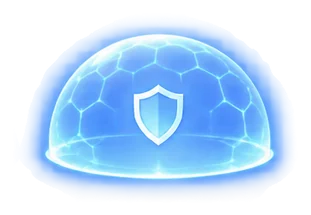
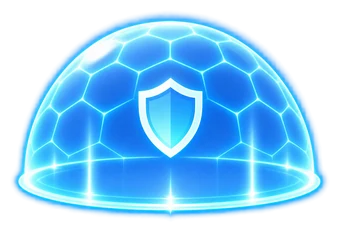
Replace W shield frames with uploaded 방어막1-4 art; enlarge 추진팀장
- Build fx_w_0..3 from the transparent 방어막1-4.png sources with equal ring
  width and no edge feathering, so the dome is never clipped
- Shrink the 추진팀장 idle canvas so the in-game scale matches the other captains

Claude-Session: https://claude.ai/code/session_01MvzzvQc6xr2KAW6vgqiYJS

diff --git a/tools/build_sprites.py b/tools/build_sprites.py
@@ -175,6 +175,18 @@ for r, row in enumerate(names):
         if n in W_BOXES:  # W 보호막은 격자 칸보다 넓어 실제 위치로 잘라냄
             im = largest(crop(fx, *W_BOXES[n]), dil=3)
         save('fx_' + n, im, scale=0.75)
+# W 보호막 4단계: 별도 투명 원본(방어막1~4.png)으로 교체 — 이미 글로우가 0까지 사라지므로 가장자리 처리 없이 여백만 둠
+W_RING = 320  # 모든 단계의 바닥 링 폭을 같게 맞춰 프레임이 바뀌어도 크기가 튀지 않게 함
+for i in range(4):
+    im = Image.open(os.path.join(SRC, f'방어막{i + 1}.png')).convert('RGBA')
+    a = np.array(im); a[:, :, 3][a[:, :, 3] < 4] = 0; im = Image.fromarray(a)
+    im = im.crop(im.getbbox())
+    im = im.resize((W_RING, round(im.height * W_RING / im.width)), Image.LANCZOS)
+    pad = 10
+    padded = Image.new('RGBA', (im.width + pad * 2, im.height + pad * 2))
+    padded.paste(im, (pad, pad))
+    padded.save(os.path.join(OUT, f'fx_w_{i}.webp'), 'WEBP', quality=88, method=6)
+    manifest[f'fx_w_{i}'] = [padded.width, padded.height]
 save('fx_purple_blast', largest(load('보랏빛 마법 충격파 폭발.png'), keep_all=True), height=300)
 save('fx_red_strike', largest(load('붉은 번개 충격파 이펙트.png'), keep_all=True), height=320)
 
@@ -314,7 +326,9 @@ for team, (fname, needs_bg, B) in CAPTAINS.items():
     save(f'fx_cap_{team}_bolt', largest(crop(fx_sheet, *B['bolt']), dil=8), height=60)
     if team == 'push':
         # 추진팀장 기본 서 있는 모습: 단독 일러스트(추진팀장2.png)를 시트 대기 프레임과 같은 키로 맞춤
-        idle_h = round(largest(crop(sheet, *B['idle'][0])).height * CAP_SCALE)
+        # 게임은 대기 그림 높이로 전체 배율을 정하므로, 달리기 모습이 개발(약 68px)·사업(약 78px)팀장의 중간인 73px로 보이게 대기 높이를 정함
+        run_h = largest(crop(sheet, *B['run'][0])).height * CAP_SCALE
+        idle_h = round(run_h * 82 / 73)
         save('cap_push_idle_0', largest(load('추진팀장2.png')), height=idle_h, center=True)
 
 # 게임 코드용 목록 갱신
